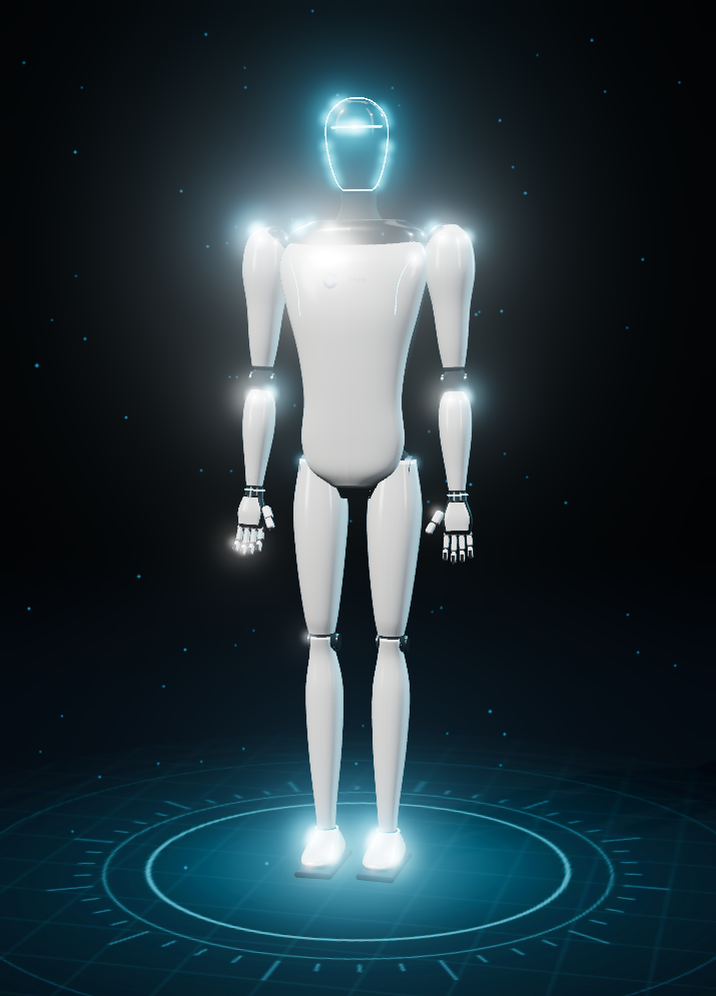
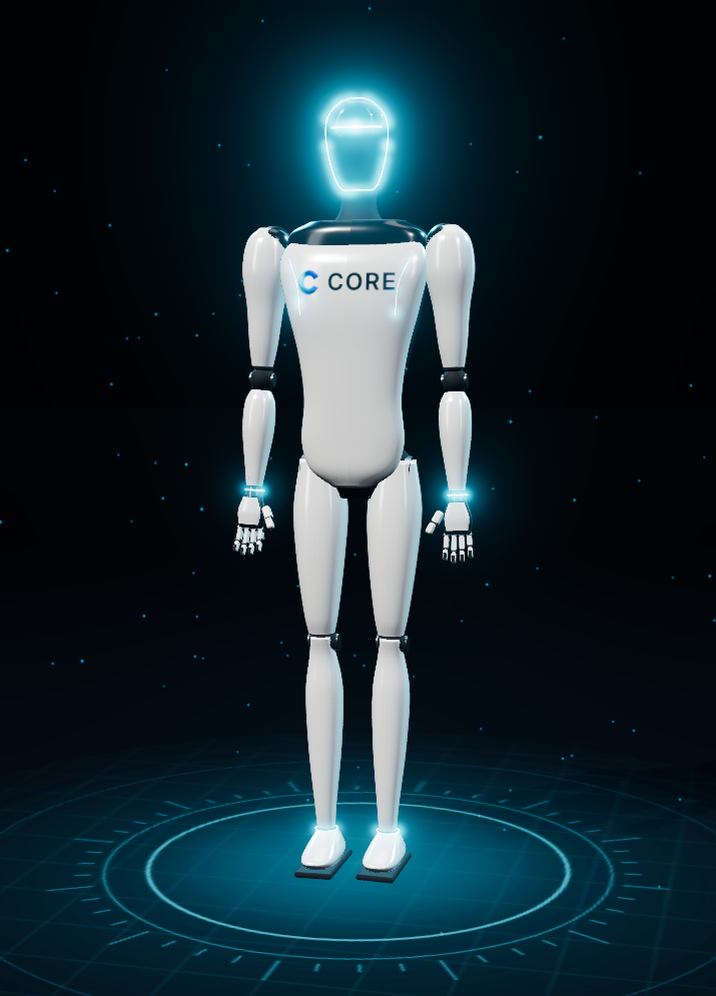
Make the chest CORE mark read clearly and limit bloom to the light elements
- Bloom is now selective: only glow meshes feed the bloom buffer, so the
  white shell and chest branding are no longer lifted by haze
- Chest logo and lettering are decals conformed to the curved chest;
  lettering is about three times larger, bold, and still smaller than the
  logo mark
- Posters regenerated

Claude-Session: https://claude.ai/code/session_01NPXyWnGLKAmcfVaYdtycw5

Changed region(s): [[0.1844, 0.0622, 0.7682, 0.5914], [0.338, 0.7159, 0.6453, 0.9649], [0.3994, 0.6225, 0.4609, 0.6536]]

diff --git a/src/corporate/robots/mountHumanoidScene.ts b/src/corporate/robots/mountHumanoidScene.ts
@@ -4,6 +4,7 @@ import { EffectComposer } from 'three/examples/jsm/postprocessing/EffectComposer
 import { RenderPass } from 'three/examples/jsm/postprocessing/RenderPass.js';
 import { UnrealBloomPass } from 'three/examples/jsm/postprocessing/UnrealBloomPass.js';
 import { OutputPass } from 'three/examples/jsm/postprocessing/OutputPass.js';
+import { ShaderPass } from 'three/examples/jsm/postprocessing/ShaderPass.js';
 import { createHumanoid, disposeHumanoid } from './createHumanoid';
 
 export type HumanoidFocus = 'full' | 'face' | 'core' | 'hand';
@@ -93,7 +94,7 @@ export function mountHumanoidScene(container: HTMLDivElement, events: Events): H
   for (let i = 0; i < dustCount; i++) { const a = Math.random() * Math.PI * 2, r = .35 + Math.random() * 1.5; dust[i * 3] = Math.cos(a) * r; dust[i * 3 + 1] = Math.random() * 2.6; dust[i * 3 + 2] = Math.sin(a) * r - .2; dustSeed[i] = Math.random(); }
   const dustGeometry = new T.BufferGeometry(); dustGeometry.setAttribute('position', new T.BufferAttribute(dust, 3));
   const dustMat = new T.PointsMaterial({ map: sprite, size: .028, transparent: true, depthWrite: false, blending: T.AdditiveBlending, opacity: 0, color: '#9fe8ff' });
-  scene.add(new T.Points(dustGeometry, dustMat));
+  const dustPoints = new T.Points(dustGeometry, dustMat); scene.add(dustPoints);
   // Boot scan: a ring of light with a soft curtain rises through the body.
   const curtainTexture = canvasTexture(64, (c, s) => { const g = c.createLinearGradient(0, s, 0, 0); g.addColorStop(0, 'rgba(70,214,255,0)'); g.addColorStop(.85, 'rgba(70,214,255,.55)'); g.addColorStop(1, 'rgba(200,245,255,1)'); c.fillStyle = g; c.fillRect(0, 0, s, s); });
   const scan = new T.Group(); scan.visible = false; scene.add(scan);
@@ -103,11 +104,34 @@ export function mountHumanoidScene(container: HTMLDivElement, events: Events): H
   const curtain = new T.Mesh(new T.CylinderGeometry(.36, .36, .22, 96, 1, true), curtainMat); curtain.position.y = -.11; scan.add(curtain);
 
   // Bloom is what turns the HDR glow materials into light; resolution is kept modest for phones.
+  // Selective bloom: only the light elements are rendered into the bloom buffer (everything else
+  // drawn black, so it still occludes), and that glow is added over the normal render. The white
+  // shell and the chest branding therefore stay crisp instead of being lifted by a haze.
+  const bloomComposer = new EffectComposer(renderer, new T.WebGLRenderTarget(1, 1, { type: T.HalfFloatType }));
+  bloomComposer.renderToScreen = false; cleanup.push(() => bloomComposer.dispose());
+  bloomComposer.addPass(new RenderPass(scene, camera));
+  const bloom = new UnrealBloomPass(new T.Vector2(256, 256), .9, .3, .2); bloomComposer.addPass(bloom); cleanup.push(() => bloom.dispose());
   const composer = new EffectComposer(renderer, new T.WebGLRenderTarget(1, 1, { type: T.HalfFloatType, samples: 4 }));
   cleanup.push(() => composer.dispose());
   composer.addPass(new RenderPass(scene, camera));
-  const bloom = new UnrealBloomPass(new T.Vector2(256, 256), .9, .3, 2.4); composer.addPass(bloom); cleanup.push(() => bloom.dispose());
+  const mix = new ShaderPass(new T.ShaderMaterial({
+    uniforms: { baseTexture: { value: null }, bloomTexture: { value: bloomComposer.renderTarget2.texture } },
+    vertexShader: 'varying vec2 vUv; void main(){ vUv = uv; gl_Position = projectionMatrix * modelViewMatrix * vec4(position, 1.0); }',
+    fragmentShader: 'uniform sampler2D baseTexture; uniform sampler2D bloomTexture; varying vec2 vUv; void main(){ gl_FragColor = texture2D(baseTexture, vUv) + vec4(texture2D(bloomTexture, vUv).rgb, 0.0); }',
+  }), 'baseTexture');
+  composer.addPass(mix); cleanup.push(() => { mix.material.dispose(); mix.dispose(); });
   const output = new OutputPass(); composer.addPass(output); cleanup.push(() => output.dispose());
+  const black = new T.MeshBasicMaterial({ color: '#000000' }); cleanup.push(() => black.dispose());
+  const swapped = new Map<T.Mesh, T.Material | T.Material[]>();
+  const glows = new Set<T.Object3D>([scanRing, curtain]);
+  function renderBloom() {
+    scene.traverse(o => { if (o instanceof T.Mesh && !glows.has(o)) { swapped.set(o, o.material); o.material = black; } });
+    const background = scene.background, dustVisible = dustPoints.visible, stageVisible = stage.visible;
+    scene.background = null; dustPoints.visible = false; stage.visible = false; renderer.shadowMap.autoUpdate = false;
+    bloomComposer.render();
+    renderer.shadowMap.autoUpdate = true; scene.background = background; dustPoints.visible = dustVisible; stage.visible = stageVisible;
+    for (const [o, m] of swapped) o.material = m; swapped.clear();
+  }
 
   let root: T.Group | undefined, head: T.Object3D | undefined, armR: T.Object3D | undefined, elbowR: T.Object3D | undefined, armL: T.Object3D | undefined, handR: T.Object3D | undefined;
   let faceLine: T.Mesh | undefined, eyeBar: T.Mesh | undefined, eyeFocus: T.Mesh | undefined;
@@ -222,7 +246,7 @@ export function mountHumanoidScene(container: HTMLDivElement, events: Events): H
       el.dataset.show = show ? 'true' : 'false';
     }
   }
-  function render() { if (disposed) return; placeAnchors(); tuneBloom(); composer.render(); }
+  function render() { if (disposed) return; placeAnchors(); tuneBloom(); renderBloom(); composer.render(); }
   function step(dt: number) {
     clock += dt;
     if (bootT < BOOT) { bootT = Math.min(BOOT, bootT + dt); }
@@ -248,7 +272,7 @@ export function mountHumanoidScene(container: HTMLDivElement, events: Events): H
 
   function resize() {
     if (disposed) return; const w = container.clientWidth, h = container.clientHeight; if (!w || !h) return;
-    renderer.setSize(w, h, false); composer.setPixelRatio(renderer.getPixelRatio()); composer.setSize(w, h);
+    renderer.setSize(w, h, false); composer.setPixelRatio(renderer.getPixelRatio()); composer.setSize(w, h); bloomComposer.setPixelRatio(renderer.getPixelRatio()); bloomComposer.setSize(w, h);
     bloom.resolution.set(w / 2, h / 2);
     camera.aspect = w / h; camera.updateProjectionMatrix(); if (tween.t >= 1) moveTo(focus, true); still();
   }
@@ -284,6 +308,7 @@ export function mountHumanoidScene(container: HTMLDivElement, events: Events): H
     armL = model.getObjectByName('shoulder_left'); handR = model.getObjectByName('hand_right');
     model.traverse(o => {
       if (!(o instanceof T.Mesh)) return;
+      if (o.name.startsWith('glow_')) glows.add(o);
       if (o.name === 'glow_face_outline') faceLine = o; else if (o.name === 'glow_eye_bar') eyeBar = o; else if (o.name === 'glow_eye_focus') eyeFocus = o;
       else if (o.name === 'glow_seam') seams.push(o); else if (o.name === 'glow_ring') rings.push({ mesh: o, y: o.getWorldPosition(new T.Vector3()).y });
     });

diff --git a/src/corporate/robots/createHumanoid.ts b/src/corporate/robots/createHumanoid.ts
@@ -238,23 +238,34 @@ export async function createHumanoid(): Promise<T.Group> {
     logo.colorSpace = T.SRGBColorSpace;
     logo.anisotropy = 4;
     root.updateMatrixWorld(true);
-    function chestPrint(name:string,width:number,height:number,x:number,material:T.Material){
-      const item=mesh(root,name,new T.PlaneGeometry(width,height),material,[x,1.55,0]);
-      const hit=new T.Raycaster(new T.Vector3(x,1.55,1),new T.Vector3(0,0,-1)).intersectObject(root.getObjectByName('ceramic_chest')!)[0];
-      if(!hit?.face)throw new Error('Chest branding surface unavailable');
-      item.position.copy(hit.point).addScaledVector(hit.face.normal,.0018);
-      item.quaternion.setFromUnitVectors(new T.Vector3(0,0,1),hit.face.normal);
-      item.castShadow=false;return item;
+    const chestSurface=root.getObjectByName('ceramic_chest')!;
+    // Prints wrap the curved chest like a decal: every vertex is projected onto the shell,
+    // so a larger mark stays crisp and never sinks into the surface at its edges.
+    function chestPrint(name:string,width:number,height:number,x:number,y:number,material:T.Material){
+      const geometry=new T.PlaneGeometry(width,height,24,6),pos=geometry.getAttribute('position');
+      for(let i=0;i<pos.count;i++){
+        const px=x+pos.getX(i),py=y+pos.getY(i);
+        const hit=new T.Raycaster(new T.Vector3(px,py,1),new T.Vector3(0,0,-1)).intersectObject(chestSurface)[0];
+        if(hit?.face){hit.point.addScaledVector(hit.face.normal,.0012);pos.setXYZ(i,hit.point.x,hit.point.y,hit.point.z);}
+        else pos.setXYZ(i,px,py,.1); // Transparent margin past the shell edge; never fail the model over it.
+      }
+      geometry.computeVertexNormals();
+      const item=mesh(root,name,geometry,material);item.castShadow=false;item.receiveShadow=false;item.renderOrder=2;
+      return item;
     }
-    chestPrint('official_CORE_logo',.042,.046,-.039,new T.MeshBasicMaterial({ map: logo, transparent: true, depthWrite: false, toneMapped: false }));
+    const print=(map:T.Texture)=>new T.MeshBasicMaterial({ map, transparent: true, depthWrite: false, toneMapped: false, fog: false, polygonOffset: true, polygonOffsetFactor: -2 });
+    chestPrint('official_CORE_logo',.058,.064,-.097,1.545,print(logo));
     const canvas = document.createElement('canvas');
-    canvas.width = 1024; canvas.height = 256;
+    canvas.width = 1024; canvas.height = 300;
     const ctx = canvas.getContext('2d');
     if (!ctx) throw new Error('Brand texture unavailable');
-    ctx.fillStyle = '#26333c'; ctx.font = '500 140px Arial, sans-serif';
-    ctx.textAlign = 'center'; ctx.textBaseline = 'middle'; ctx.fillText('C O R E',512,137);
-    const wordmark = new T.CanvasTexture(canvas); wordmark.colorSpace = T.SRGBColorSpace;
-    chestPrint('CORE_chest_lettering',.086,.021,.030,new T.MeshBasicMaterial({ map: wordmark, transparent: true, depthWrite: false, toneMapped: false }));
+    ctx.fillStyle = '#0b1620'; ctx.font = '800 240px Inter, "Helvetica Neue", Arial, sans-serif';
+    ctx.textAlign = 'center'; ctx.textBaseline = 'middle';
+    if ('letterSpacing' in ctx) (ctx as CanvasRenderingContext2D & { letterSpacing: string }).letterSpacing = '12px';
+    ctx.fillText('CORE',512,158);
+    const wordmark = new T.CanvasTexture(canvas); wordmark.colorSpace = T.SRGBColorSpace; wordmark.anisotropy = 4;
+    // Lettering cap height is about two thirds of the logo mark, so the mark still leads.
+    chestPrint('CORE_chest_lettering',.25,.0733,.040,1.545,print(wordmark));
   } catch (error) { disposeHumanoid(root); throw error; }
   root.userData = { status: 'CONCEPT', version: 5, description: 'Original CORE appearance concept; not a physical robot or engineering specification.' };
   return root;
